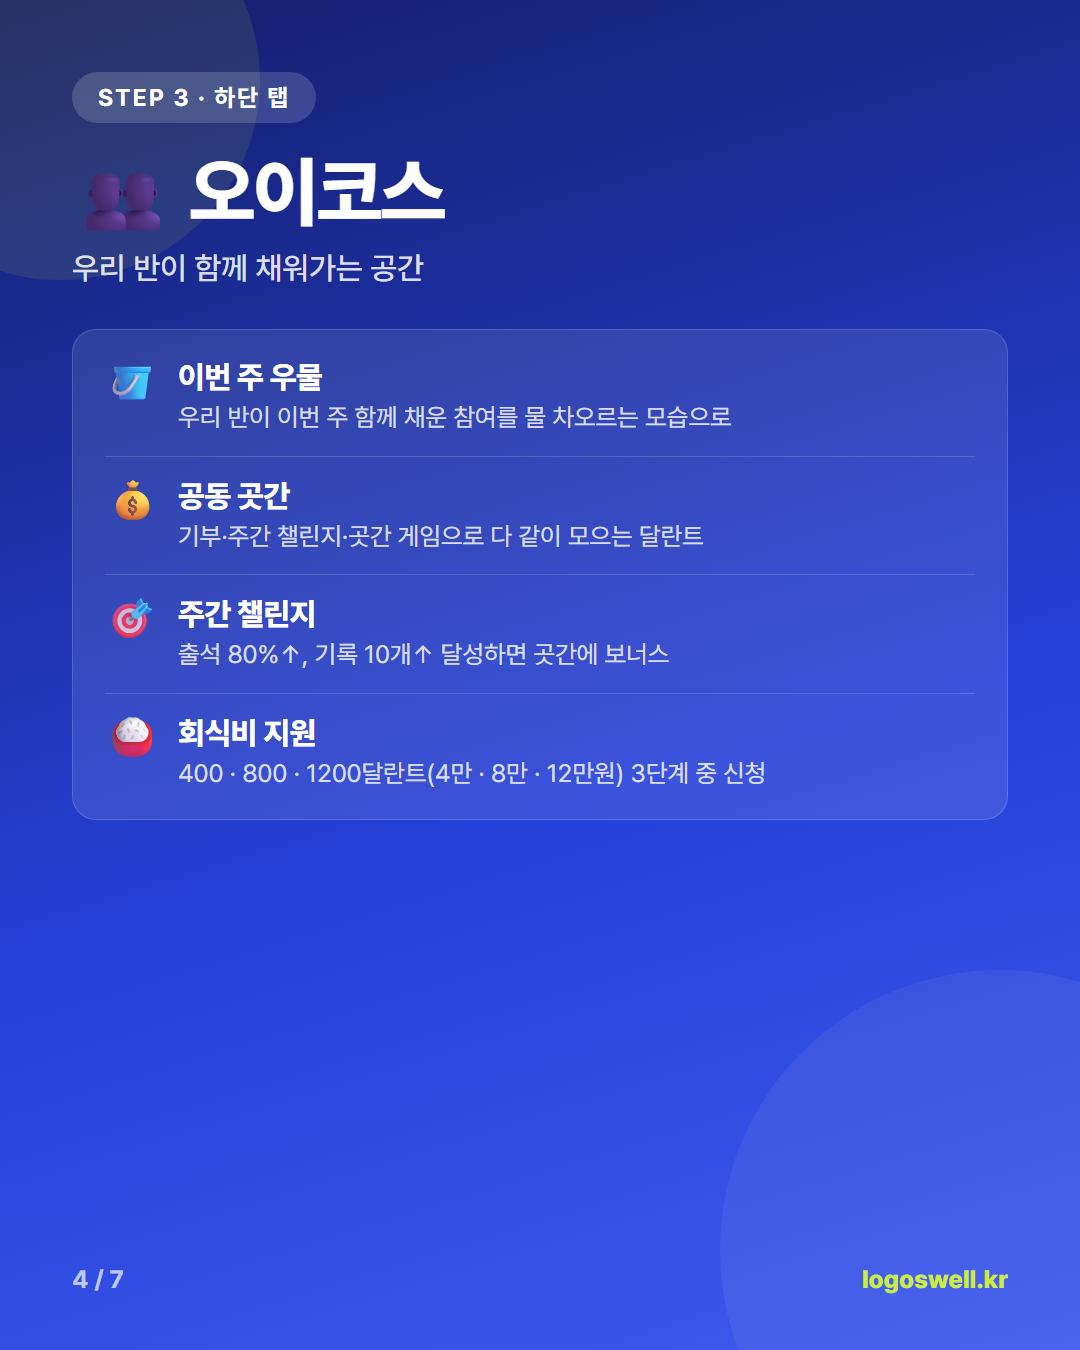
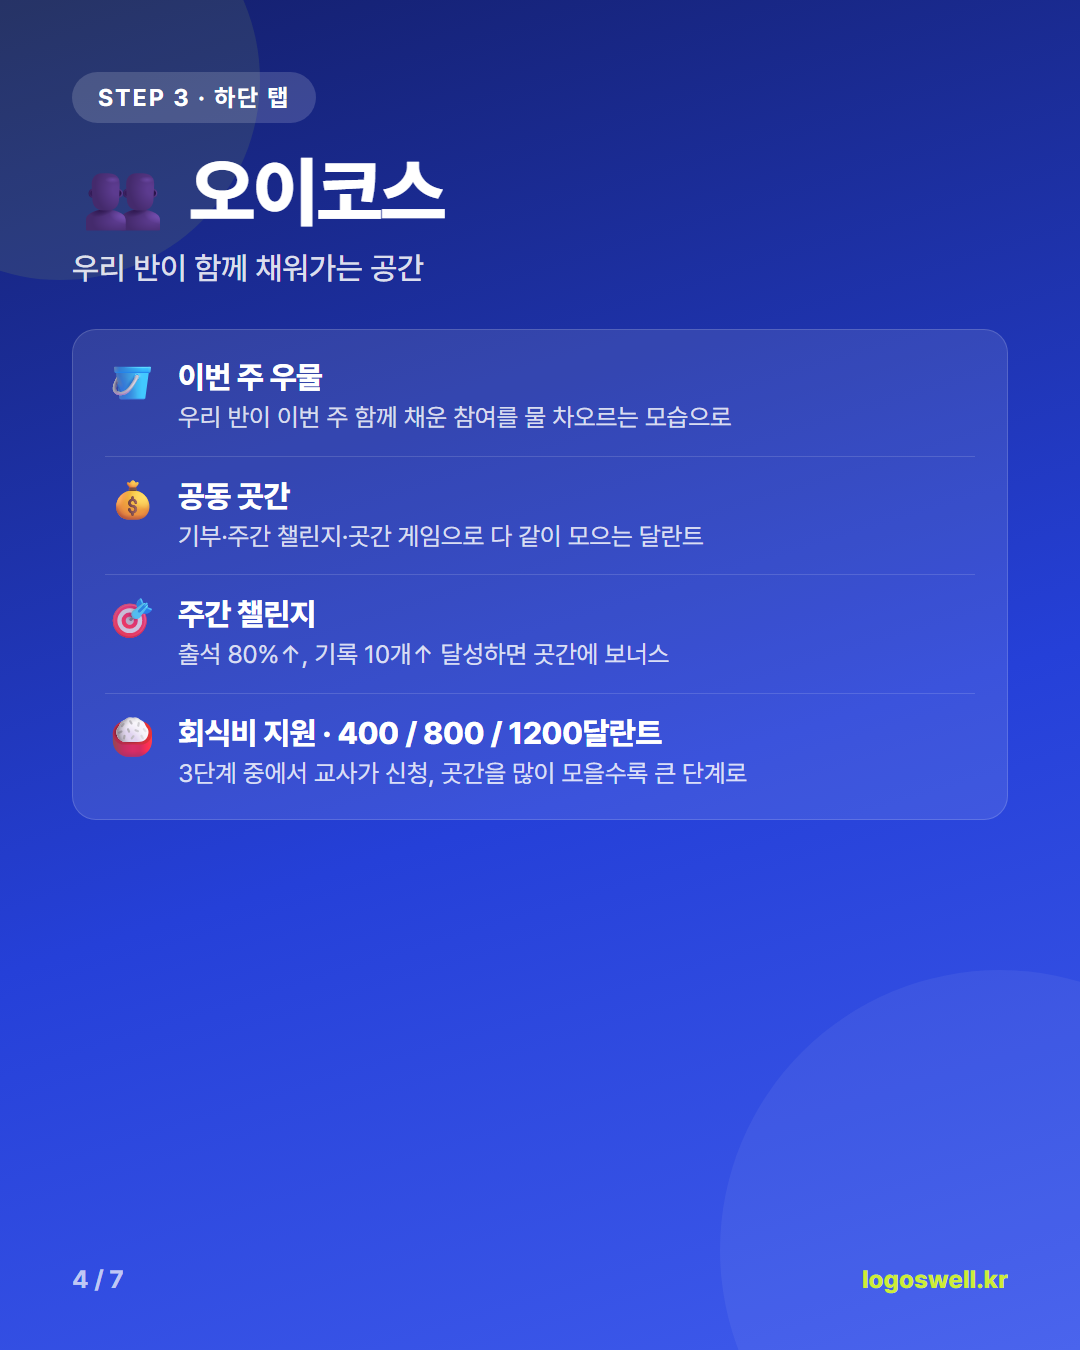
카루셀 4번(오이코스) 수정: 달란트 숫자 제목에 크게, 실제 원 금액 표기 제거
Claude-Session: https://claude.ai/code/session_01EdJ9H2R6htSDrPzKJjRbpL

Changed region(s): [[0.1528, 0.5289, 0.7028, 0.5911]]

diff --git a/promo/_source_menu-guide-4-oikos.html b/promo/_source_menu-guide-4-oikos.html
@@ -36,7 +36,7 @@
     <div class="row"><span class="e">🪣</span><div class="t"><b>이번 주 우물</b><span>우리 반이 이번 주 함께 채운 참여를 물 차오르는 모습으로</span></div></div>
     <div class="row"><span class="e">💰</span><div class="t"><b>공동 곳간</b><span>기부·주간 챌린지·곳간 게임으로 다 같이 모으는 달란트</span></div></div>
     <div class="row"><span class="e">🎯</span><div class="t"><b>주간 챌린지</b><span>출석 80%↑, 기록 10개↑ 달성하면 곳간에 보너스</span></div></div>
-    <div class="row"><span class="e">🍚</span><div class="t"><b>회식비 지원</b><span>400 · 800 · 1200달란트(4만 · 8만 · 12만원) 3단계 중 신청</span></div></div>
+    <div class="row"><span class="e">🍚</span><div class="t"><b>회식비 지원 · 400 / 800 / 1200달란트</b><span>3단계 중에서 교사가 신청, 곳간을 많이 모을수록 큰 단계로</span></div></div>
   </div>
   <div class="foot"><span class="n">4 / 7</span><span class="site">logoswell.kr</span></div>
 </div>
